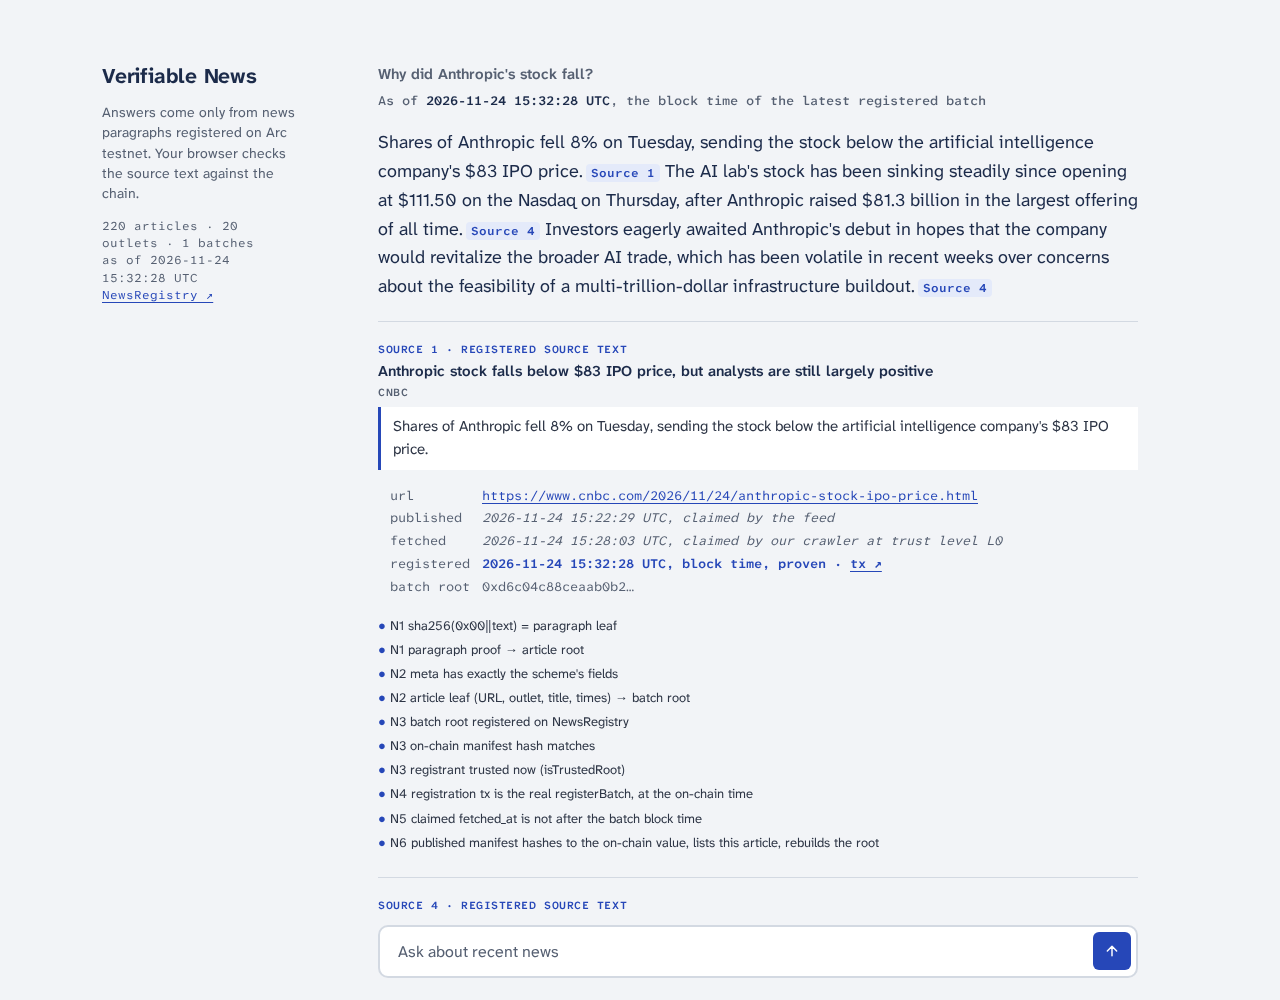
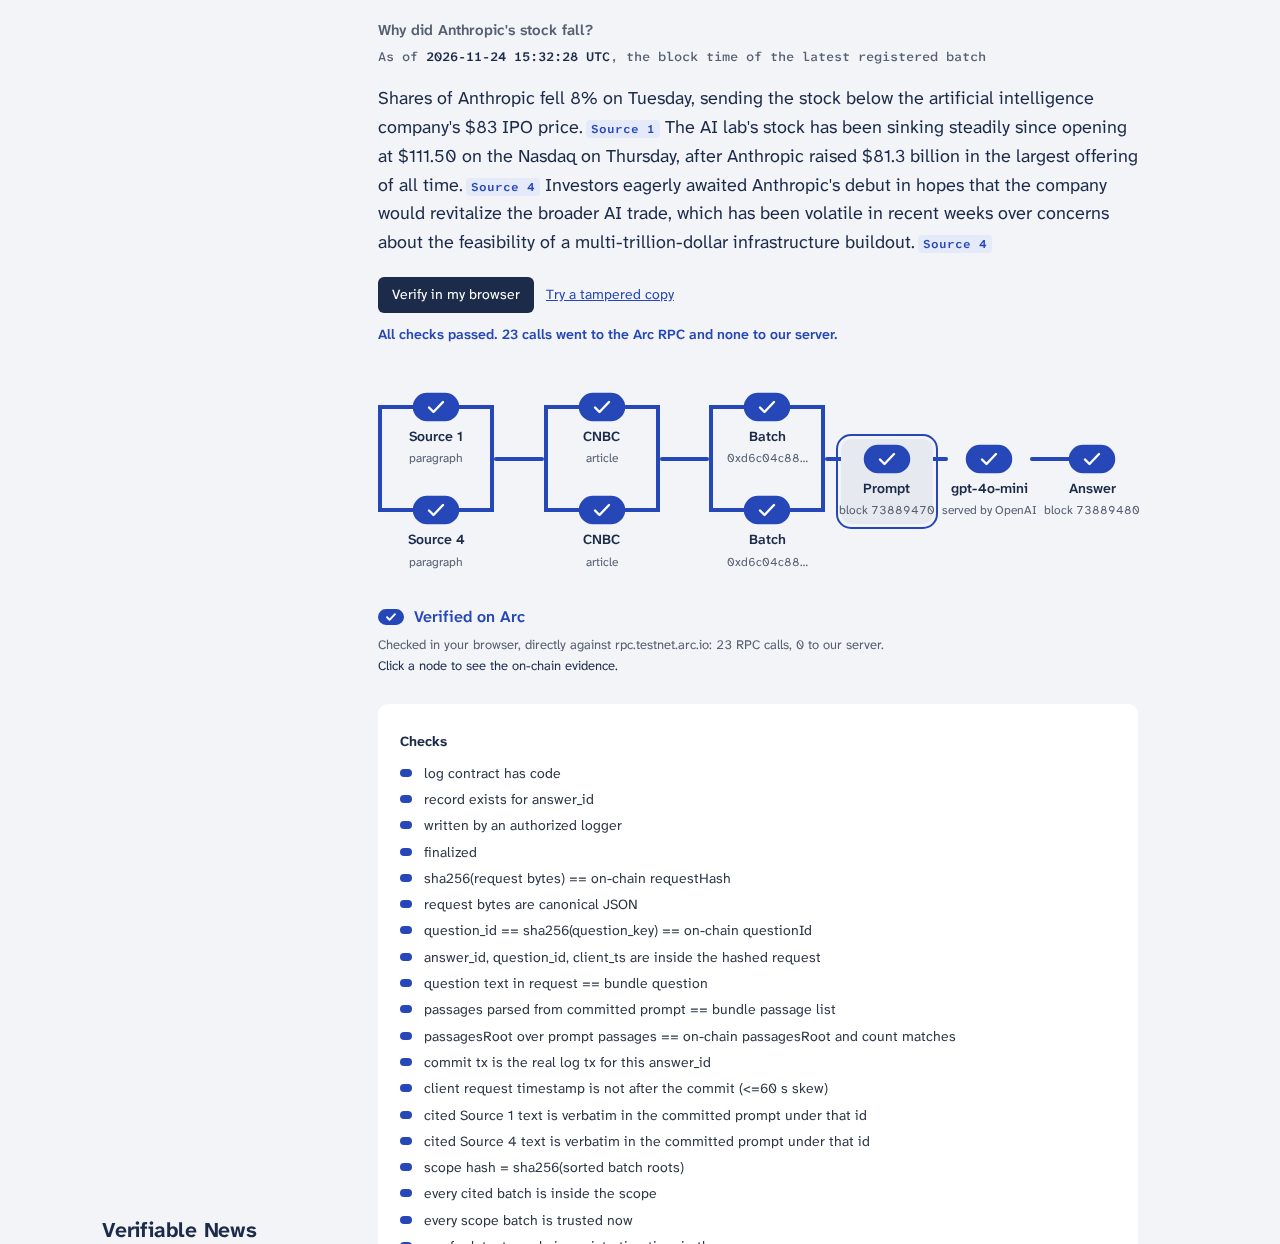
news page: restore the chain-of-custody diagram (shared ui.js), nodes mapped to news checks

diff --git a/webdemo/static/ui.js b/webdemo/static/ui.js
@@ -61,7 +61,7 @@
     return (rs && rs[0]) || "source check failed"; }
   const allOk = (a) => a.every((x) => x.ok);
   const firstBad = (a) => (a.find((x) => !x.ok) || {}).check || "";
-  const strip = (s) => s.replace(/^[MC]\d /, "");
+  const strip = (s) => s.replace(/^[MCNSU]\d /, "");
   function build(b, v) {
     const mc = v ? v.model_call : [], tagged = (t) => mc.filter((x) => x.tag === t), inf = b.inference;
     const rec = tagged("record"), recOk = allOk(rec);
@@ -94,6 +94,42 @@
       cols.push([{ k: "a", lbl: "Answer", sub: "block " + inf.finalize_block, tags: ["answer"], rec: 1, checks: ac, ok: nodeOk(ac),
         why: "answer: " + (ac.some((x) => /^M4 bundle answer/.test(x.check) && !x.ok) ? "differs from the response logged on-chain" : ac.some((x) => /^M4 sha256/.test(x.check) && !x.ok) ? "response bytes don't match the on-chain hash" : strip(firstBad(ac))) }]);
     }
+    return cols;
+  }
+
+  // ---------- news bundles: paragraph -> article -> batch -> prompt -> model -> answer ----------
+  function buildNews(b, v) {
+    const mc = v ? v.model_call : [], tagged = (t) => mc.filter((x) => x.tag === t), inf = b.inference, cites = b.citations || [];
+    const rec = tagged("record"), recOk = allOk(rec);
+    const okc = (cs) => (v ? cs.length > 0 && cs.every((x) => x.ok !== false) : true);
+    const grp = (i, re) => ((v && v.citations[i]) ? v.citations[i].checks : []).filter((x) => re.test(x.check));
+    const bad = (cs, re) => cs.some((x) => re.test(x.check) && x.ok === false);
+    const head = v ? v.header : [], cols = []; // chain id, registry code and scheme sit on the batch nodes: they are facts about the registry
+    if (cites.length) {
+      cols.push(cites.map((c, i) => { const cs = grp(i, /^N1/);
+        return { k: "s" + i, lbl: disp(c.id), sub: "paragraph", tags: ["src:" + i], checks: cs, ok: okc(cs), src: true,
+          why: `${c.id}: the text was changed, so its hash no longer reaches the article root` }; }));
+      cols.push(cites.map((c, i) => { const cs = grp(i, /^(N2|N5|U1)/);
+        return { k: "r" + i, lbl: c.article.meta.outlet, sub: "article", tags: ["art:" + i], checks: cs, ok: okc(cs),
+          why: `${c.id}: ` + (bad(cs, /^U1/) ? "this outlet is not one of your chosen sources" : bad(cs, /^N5/) ? "the claimed fetch time is after the registration"
+            : "the URL, outlet, title or times differ from the registered article") }; }));
+      cols.push(cites.map((c, i) => { const cs = head.concat(grp(i, /^(N3|N4|N6)/));
+        return { k: "b" + i, lbl: "Batch", sub: c.batch.root.slice(0, 10) + "…", tags: ["net", "bat:" + i], checks: cs, ok: okc(cs),
+          why: !allOk(head) ? "registry: " + firstBad(head) : `${c.id}: ` + (bad(cs, /^N3 batch root registered/) ? "this batch root is not registered on NewsRegistry" : bad(cs, /^N3 registrant/) ? "the batch was registered by a key that is not trusted"
+            : bad(cs, /^N4/) ? "the registration transaction does not match" : bad(cs, /^N6/) ? "the published manifest does not match the chain" : strip(firstBad(cs))) }; }));
+    } else cols.push([{ k: "s", lbl: "Sources", sub: "none cited", tags: ["net"], checks: head, ok: v ? allOk(head) : true, why: "registry: " + firstBad(head) }]);
+    const sc = v ? v.scope : [];
+    if (inf) {
+      const nodeOk = (cs) => (v ? cs.length > 0 && cs.every((x) => x.ok !== false) && recOk : true);
+      const pc = rec.concat(tagged("prompt"), ...cites.map((c, i) => tagged("src:" + i)), sc), mcK = tagged("model"), ac = tagged("answer"), md = v && v.model;
+      cols.push([{ k: "p", lbl: "Prompt", sub: "block " + inf.commit_block, tags: ["record", "prompt", "scope"], checks: pc, ok: nodeOk(pc),
+        why: !recOk ? "log record: " + strip(firstBad(rec)) : pc.some((x) => /^M3 cited/.test(x.check) && !x.ok) ? "prompt: a cited paragraph was not in the prompt committed on-chain"
+          : pc.some((x) => /^M2 sha256/.test(x.check) && !x.ok) ? "prompt: bytes differ from the hash committed on-chain" : "prompt: " + strip(firstBad(pc)) }]);
+      cols.push([{ k: "m", lbl: bare(inf.model), wide: 1, sub: md ? `served by ${md.provider || "unknown"}` : "requested", tags: ["model"], rec: 1, checks: mcK, ok: nodeOk(mcK),
+        why: "model: " + (md && !md.match ? `requested ${bare(md.requested)}, served ${bare(md.served)}` : "response bytes don't match the on-chain hash") }]);
+      cols.push([{ k: "a", lbl: "Answer", sub: "block " + inf.finalize_block, tags: ["answer"], rec: 1, checks: ac, ok: nodeOk(ac),
+        why: "answer: " + (ac.some((x) => /^M4 bundle answer/.test(x.check) && !x.ok) ? "differs from the response logged on-chain" : strip(firstBad(ac))) }]);
+    } else cols.push([{ k: "p", lbl: "Scope", sub: "batches searched", tags: ["scope"], checks: sc, ok: okc(sc), why: "scope: " + strip(firstBad(sc)) }]);
     return cols;
   }
 
@@ -160,20 +196,22 @@
 
   // ---------- verify (in the browser) ----------
   function nodeHTML(n) { return `<div class="node wait${n.wide ? " wide" : ""}" data-k="${n.k}" role="button" tabindex="0" title="Show on-chain evidence">${LINK()}<div class="lbl">${esc(n.lbl)}</div><div class="sub">${esc(n.sub)}</div></div>`; }
-  async function verify(body, b, tampered) {
+  // opt.verifyFn / opt.build: the news page passes NewsVerify.verify and buildNews; the diagram code is shared
+  async function verify(body, b, tampered, opt = {}) {
+    const vfn = opt.verifyFn || ((x, o) => A().verifyBundle(x, o)), bld = opt.build || build;
     body.querySelector(".ptx").innerHTML = "";
-    const vf = body.querySelector(".vf"), cols0 = build(b, null);
+    const vf = body.querySelector(".vf"), cols0 = bld(b, null);
     vf.innerHTML = `<div class="flow">${cols0.map((c, i) => (i ? `<div class="link" data-l="${i}"></div>` : "") + `<div class="col${c.length > 1 ? " multi" : ""}" data-c="${i}">${c.map(nodeHTML).join("")}</div>`).join("")}</div>
       <div class="why"></div><div class="how"></div><div class="hint"></div><div class="det"></div>`;
     vf.querySelector(".det").style.display = "none";
     const t0 = performance.now(); let v;
     const how = vf.querySelector(".how");
-    try { v = await A().verifyBundle(b, { onStatus: (m) => (how.textContent = b.retrieval ? `Replaying retrieval: ${m} from the committed URI…` : "") }); }
+    try { v = await vfn(b, { onStatus: (m) => (how.textContent = b.retrieval ? `Replaying retrieval: ${m} from the committed URI…` : "") }); }
     catch (e) { vf.querySelector(".why").textContent = "could not reach the Arc RPC from your browser: " + e.message;
       vf.querySelector(".how").textContent = "verify offline-of-us instead: python verify_citations.py bundle.json  (or the cast commands in the README)"; return; }
     const mine = location.origin && location.origin !== "null"
       ? performance.getEntriesByType("resource").filter((e) => e.startTime >= t0 && new URL(e.name).origin === location.origin).length : 0;
-    const cols = build(b, v), byk = Object.fromEntries(cols.flat().map((n) => [n.k, n])), det = vf.querySelector(".det");
+    const cols = bld(b, v), byk = Object.fromEntries(cols.flat().map((n) => [n.k, n])), det = vf.querySelector(".det");
     vf.querySelectorAll(".node").forEach((el) => (el.onkeydown = (e) => { if (e.key === "Enter" || e.key === " ") { e.preventDefault(); el.click(); } }));
     vf.querySelectorAll(".node").forEach((el) => (el.onclick = () => {
       const same = det.dataset.k === el.dataset.k && det.style.display !== "none";
@@ -224,5 +262,5 @@
     return inp;
   }
 
-  G.VUI = { newTurn, render, verify, loadBundle, initFileInput, esc };
+  G.VUI = { newTurn, render, verify, buildNews, loadBundle, initFileInput, esc };
 })(globalThis);

diff --git a/webdemo/static/newsverify.js b/webdemo/static/newsverify.js
@@ -12,6 +12,7 @@
   const hx = (u8) => "0x" + toHex(u8);
   const keccakHex = (s) => toHex(G.nobleHashes.keccak_256(enc.encode(s)));
   const SEL = {}; for (const s of ["getBatch(bytes32)", "isTrustedRoot(bytes32)", "registerBatch(bytes32,bytes32,uint32,string)"]) SEL[s] = keccakHex(s).slice(0, 8);
+  if (G.ArcVerify) Object.assign(G.ArcVerify.SEL, SEL);
   const TOPIC = "0x" + keccakHex("BatchRegistered(bytes32,bytes32,address,uint32,uint256)");
 
   // RFC 8785 for our value types: JS string sort = UTF-16 code units; JSON.stringify string escaping = JCS
@@ -39,13 +40,18 @@
   const iso = (t) => new Date(t * 1000).toISOString().replace(".000Z", "Z");
 
   async function verify(b, opts = {}) {
-    const rpcUrl = opts.rpc || b.rpc || "https://rpc.testnet.arc.io", calls = [];
+    const rpcUrl = opts.rpc || b.rpc || "https://rpc.testnet.arc.io", calls = [], evidence = {};
+    let tag = "net";
     async function rpc(method, params) {
+      const t0 = performance.now();
       for (let a = 0; ; a++) {
         const r = await fetch(rpcUrl, { method: "POST", headers: { "Content-Type": "application/json" }, body: JSON.stringify({ jsonrpc: "2.0", id: calls.length + 1, method, params }) });
         const out = r.status === 429 ? { error: { code: -32005 } } : await r.json();
         if (out.error && out.error.code === -32005 && a < 6) { await new Promise((ok) => setTimeout(ok, 400 * 2 ** a)); continue; }
-        calls.push({ method, params }); if (opts.onCall) opts.onCall(calls.length);
+        const req = { jsonrpc: "2.0", id: calls.length + 1, method, params };
+        const item = { kind: "rpc", req, res: out, ms: Math.round(performance.now() - t0), cast: `cast rpc ${method} '${JSON.stringify(params)}' --raw --rpc-url ${rpcUrl}`,
+          href: /Transaction/.test(method) ? `https://explorer.testnet.arc.io/tx/${params[0]}` : method === "eth_call" ? `https://explorer.testnet.arc.io/address/${params[0].to}` : null };
+        calls.push(item); (evidence[tag] = evidence[tag] || []).push(item); if (opts.onCall) opts.onCall(calls.length);
         if (out.error) throw new Error(method + ": " + JSON.stringify(out.error));
         return out.result;
       }
@@ -66,7 +72,7 @@
     head.push({ check: "chain id is Arc testnet 5042002", ok: chain === 5042002 && b.chain_id === 5042002 });
     head.push({ check: "NewsRegistry has contract code", ok: !["0x", "0x0"].includes(await rpc("eth_getCode", [reg, "latest"])), detail: reg });
     head.push({ check: "Merkle scheme is news-merkle-v1", ok: N.scheme === SCHEME });
-    if (head.every((x) => x.ok)) for (const c of b.citations || []) {
+    if (head.every((x) => x.ok)) for (const [ci, c] of (b.citations || []).entries()) {
       const out = [], chk = (check, ok, detail = "") => out.push({ check, ok: ok === null ? null : !!ok, detail });
       const p = c.paragraph, a = c.article, bt = c.batch, meta = a.meta;
       const leaf = await sha(cat(Uint8Array.of(0), enc.encode(c.text)));
@@ -78,6 +84,7 @@
       chk("N2 meta has exactly the scheme's fields", keysOk);
       try { br = await applyProof(await articleLeaf(meta, ar), a.proof); } catch (e) { /* malformed */ }
       chk("N2 article leaf (URL, outlet, title, times) → batch root", keysOk && hx(br) === bt.root.toLowerCase());
+      tag = "bat:" + ci;
       const root = hx(br).length === 66 ? hx(br) : bt.root.toLowerCase(), on = await batch(root);
       chk("N3 batch root registered on NewsRegistry", on.exists, root);
       if (on.exists) {
@@ -107,6 +114,7 @@
       if (opts.outlets) chk("U1 outlet is one of your chosen sources", opts.outlets.includes(meta.outlet), meta.outlet);
       cites.push({ id: c.id, status: out.every((x) => x.ok !== false) ? "PASS" : "FAIL", checks: out, registered_at: on.exists ? on.timestamp : null });
     }
+    tag = "scope";
     const roots = ((N.scope || {}).roots || []).map((r) => r.toLowerCase()), sc = (check, ok, detail = "") => scope.push({ check, ok: !!ok, detail });
     if (head.every((x) => x.ok)) {
       sc("S1 scope hash = sha256(sorted batch roots)", roots.length && (await scopeHash(roots)) === (N.scope.scope_hash || "").toLowerCase(), `${roots.length} batch roots`);
@@ -124,13 +132,16 @@
     let model = { model_call: [] };
     if (b.inference && head.every((x) => x.ok)) model = await G.ArcVerify.verifyBundle({ ...b, contract: b.inference.log_contract }, { modelOnly: true, rpc: rpcUrl, onCall: opts.onCall });
     const flat = [...head, ...scope, ...cites.flatMap((c) => c.checks), ...model.model_call];
-    return { all_pass: flat.every((x) => x.ok !== false), header: head, citations: cites, scope, model_call: model.model_call, rpc_calls: calls.length + (model.rpc_calls || 0) };
+    const ev = { ...(model.evidence || {}) }; for (const k in evidence) ev[k] = (ev[k] || []).concat(evidence[k]);
+    return { all_pass: flat.every((x) => x.ok !== false), header: head, citations: cites, scope, model_call: model.model_call, model: model.model || null,
+             rpc: rpcUrl, evidence: ev, rpc_calls: calls.length + (model.rpc_calls || 0) };
   }
 
   function tamper(b, mode) {
     const t = JSON.parse(JSON.stringify(b)), c = t.citations[0];
     if (mode === "text") { const i = Math.floor(c.text.length / 2); c.text = c.text.slice(0, i) + (c.text[i] === "x" ? "y" : "x") + c.text.slice(i + 1); t._t = `one character of ${c.id}`; }
     else if (mode === "url") { c.article.meta.url = "https://example.com/not-the-real-article"; t._t = `the URL of ${c.id}`; }
+    else if (mode === "answer") { t.answer = t.answer + " (edited)"; t._t = "the answer"; }
     else if (mode === "time") { c.article.meta.published_at = "2020-01-01T00:00:00Z"; t._t = `the publish time of ${c.id}`; }
     return t;
   }

diff --git a/webdemo/static/news.html b/webdemo/static/news.html
@@ -46,6 +46,7 @@
 <script src="/static/noble-hashes.min.js"></script>
 <script src="/static/arcverify.js"></script>
 <script src="/static/newsverify.js"></script>
+<script src="/static/ui.js"></script>
 <script>
 const $ = (s, r = document) => r.querySelector(s), esc = (s) => String(s ?? "").replace(/[&<>"]/g, (c) => ({ "&": "&amp;", "<": "&lt;", ">": "&gt;", '"': "&quot;" }[c]));
 const EXP = "https://explorer.testnet.arc.io";
@@ -85,20 +86,22 @@ function render(t, b) {
       <span>registered</span><span class="proven">${fmt(new Date(c.batch.block_time * 1000).toISOString().replace(".000Z", "Z"))}, block time, proven · <a href="${c.batch.explorer}" target="_blank" rel="noopener">tx ↗</a></span>
       <span>batch root</span><span>${c.batch.root.slice(0, 18)}…</span></div><ul class="checks" data-c="${c.id}"></ul></div>`; }).join("")}</div>
     <div class="vbar"><button class="v">Verify in my browser</button>${ids.length ? '<button class="ghost tamper">Try a tampered copy</button>' : ""}<span class="res"></span></div>
-    <ul class="checks scope"></ul>
+    <div class="ptx"></div><div class="vf"></div>
     <p class="note">Each cited paragraph is the exact text of an article whose URL, outlet and times are in a batch root that a key you trust registered on Arc. The model saw that text before it answered. This does not prove the news is true. Full articles are not redistributed, so nobody can replay retrieval, and an article that was left out cannot be detected. The list of batches searched is fixed on-chain before the model call.</p>`;
   body.querySelectorAll(".pid").forEach((x) => (x.onclick = () => document.getElementById(`${t.id}-${x.dataset.p}`).scrollIntoView({ behavior: "smooth", block: "center" })));
   $(".v", body).onclick = () => verify(body, b);
-  const tb = $(".tamper", body); if (tb) tb.onclick = () => verify(body, NewsVerify.tamper(b, ["text", "url", "time"][Math.floor(Math.random() * 3)]));
+  const tb = $(".tamper", body); if (tb) tb.onclick = () => verify(body, NewsVerify.tamper(b, ["text", "url", "time", "answer"][Math.floor(Math.random() * 4)]));
 }
 
 async function verify(body, b) {
   const res = $(".res", body); res.className = "res"; res.textContent = "checking against Arc…";
   try {
-    const r = await NewsVerify.verify(b, { onCall: (n) => (res.textContent = `checking against Arc… ${n} RPC calls`) });
+    // chain-of-custody diagram: the shared ui.js code, with news nodes (paragraph → article → batch → prompt → model → answer)
+    const r = await VUI.verify(body, b, !!b._t, { build: VUI.buildNews,
+      verifyFn: (x, o) => NewsVerify.verify(x, { ...o, onCall: (n) => (res.textContent = `checking against Arc… ${n} RPC calls`) }) });
+    if (!r) throw new Error("could not reach the Arc RPC from your browser");
     const li = (x) => `<li class="${x.ok === null ? "skip" : x.ok ? "ok" : "bad"}">${esc(disp(x.check))}${x.detail && x.ok !== true ? `. ${esc(x.detail)}` : ""}</li>`;
     r.citations.forEach((c) => { const ul = body.querySelector(`ul[data-c="${c.id}"]`); if (ul) ul.innerHTML = c.checks.map(li).join(""); });
-    $(".scope", body).innerHTML = [...r.header, ...r.scope, ...r.model_call].map(li).join("");
     res.className = "res " + (r.all_pass ? "pass" : "fail");
     res.textContent = (b._t ? `Tampered (${disp(b._t)}): ` : "") + (r.all_pass ? `All checks passed. ${r.rpc_calls} calls went to the Arc RPC and none to our server.` : "Verification failed");
   } catch (e) { res.className = "res fail"; res.textContent = e.message; }

diff --git a/docs/news/DECISIONS.md b/docs/news/DECISIONS.md
@@ -26,3 +26,4 @@ One row per decision. Times are UTC. Rows before 15:46Z (10:46 New York time) we
 | 2026-11-24T15:50Z | copy | rewrote news README, the root README section and page copy with unslop rules | dashes, arrows and filler | `news/README.md`, `webdemo/static/news.html` | screenshot updated |
 | 2026-11-24T16:20Z | copy | rewrote the news READMEs with the technical-writing and unslop skills, split the run commands into news/RUNNING.md, and listed what a bundle proves and does not prove | the user asked for the pstack writing rules and a plain statement of the guarantees; one document per mode | `news/README.md`, `news/RUNNING.md`, root `README.md` | done |
 | 2026-11-24T16:20Z | ui | news page shows passage ids as "Source 1", "Source 4", display only | same choice the user made for the main demo; bundles and prompts keep P ids | `webdemo/static/news.html`, `webdemo/screens/news_verify.png` | screenshot regenerated, verify passes |
+| 2026-11-24T16:32Z | ui | restored the chain-of-custody diagram on the news page by reusing ui.js `verify()` with a pluggable verifier and `buildNews` (paragraph → article → batch → prompt → model → answer); each node holds its N/S/M checks, so a tampered text, URL or time breaks at the paragraph or article link | subtract-before-you-add: no new diagram code; chain/registry header checks sit on the batch nodes so the flow fits 6 columns | `webdemo/static/ui.js`, `webdemo/static/newsverify.js`, `webdemo/static/news.html` | Playwright: genuine all links closed; text→Source 1, url/time→article, answer→Answer |
